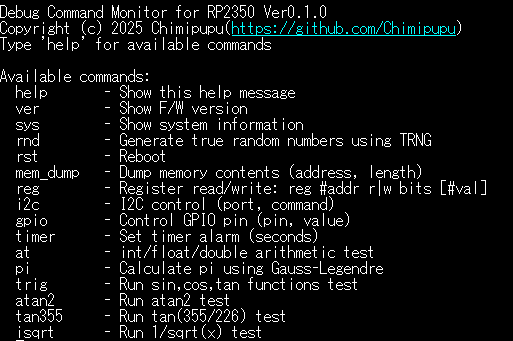
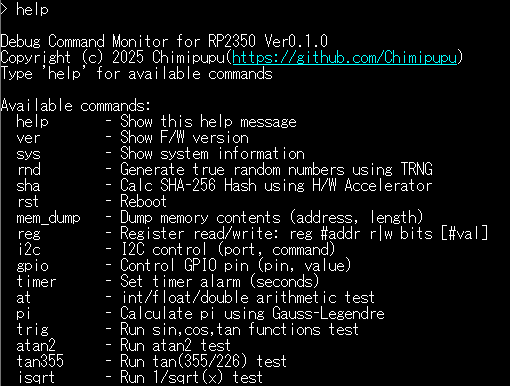
SHA-256コマンドの実装とテスト完了

Changed region(s): [[0.0, 0.0, 0.9706, 1.0]]

diff --git a/src/rp2350_dev/dbg_com.c b/src/rp2350_dev/dbg_com.c
@@ -286,22 +286,26 @@ static void cmd_pi_calc(const dbg_cmd_args_t* p_args)
 
 static void cmd_sha(const dbg_cmd_args_t* p_args)
 {
-#if 1
-    // (DEBUG)
-    // const char msg[] = "RP2350 H/W SHA-256 TEST";    // SHA256期待値「40AEDCA712E82FD6128B6A9AFCA1350ABA27AC1259E92AE3BADE0C0C4FE892E2」
-    const char msg[] = "ABC";                        // SHA256期待値「B5D4045C3F466FA91FE2CC6ABE79232A1A57CDF104F7A26E716E0A1E2789DF78」
-#endif
     uint8_t padding_buf[64 * 2];
     uint8_t hash_buf[64 * 2];
     size_t padding_len;
-
-    memset(hash_buf, 0, sizeof(hash_buf));
-    memset(padding_buf, 0, sizeof(padding_buf));
 
     if (p_args->argc < 2 || p_args->argc > 2) {
         printf("Usage: sha <data>\n");
         return;
     }
+
+    memset(hash_buf, 0, sizeof(hash_buf));
+    memset(padding_buf, 0, sizeof(padding_buf));
+
+#if 1
+    char *msg;
+    msg = p_args->p_argv[1];
+#else
+    // (DEBUG)
+    // const char msg[] = "RP2350 H/W SHA-256 TEST";    // SHA256期待値「40AEDCA712E82FD6128B6A9AFCA1350ABA27AC1259E92AE3BADE0C0C4FE892E2」
+    const char msg[] = "ABC";                        // SHA256期待値「B5D4045C3F466FA91FE2CC6ABE79232A1A57CDF104F7A26E716E0A1E2789DF78」
+#endif
 
     printf("\nSHA-256 Hash Calc(H/W)\n");
     printf("\nCalc str : %s\n", msg);

diff --git a/README.md b/README.md
@@ -47,6 +47,7 @@
 - [VER](#ver) - ファームウェアバージョン表示
 - [SYS](#sys) - システム情報表示
 - [RND](#rnd) - 真性乱数をH/WのTRANGで生成
+- [SHA](#sha) - SHA-256をH/Wで計算
 - [RST](#rst) - システムリセット
 - [MEM_DUMP](#mem_dump) - メモリダンプ
 - [REG](#reg) - レジスタR/W
@@ -80,6 +81,7 @@
     ver        - Show F/W version
     sys        - Show system information
     rnd        - Generate true random numbers using TRNG
+    sha        - Calc SHA-256 Hash using H/W Accelerator
     rst        - Reboot
     mem_dump   - Dump memory contents (address, length)
     reg        - Register read/write: reg #addr r|w bits [#val]
@@ -204,6 +206,41 @@
   [DEBUG]generated rand num(0): 1780349305
   [DEBUG]generated rand num(1): 3947560575
   [DEBUG]generated rand num(2): 1790515031
+  ```
+
+#### SHA
+
+- `sha` - SHA-256
+  - SHA-256をH/Wで計算
+
+<div align="center">
+  <img width="500" src="/doc/写真/sha256_cmd_ver0.1.0.png">
+</div>
+
+  ```shell
+  > sha ABC
+
+  SHA-256 Hash Calc(H/W)
+
+  Calc str : ABC
+
+  [Memory Dump '(addr:0x20080F28)]
+  Address  00 01 02 03 04 05 06 07 08 09 0A 0B 0C 0D 0E 0F | ASCII
+  -------- ------------------------------------------------| ------
+  20080F28: 41 42 43 80 00 00 00 00 00 00 00 00 00 00 00 00 | ABC.............
+  20080F38: 00 00 00 00 00 00 00 00 00 00 00 00 00 00 00 00 | ................
+  20080F48: 00 00 00 00 00 00 00 00 00 00 00 00 00 00 00 00 | ................
+  20080F58: 00 00 00 00 00 00 00 00 00 00 00 00 00 00 00 18 | ................
+
+  SHA-256 Hash : B5D4045C3F466FA91FE2CC6ABE79232A1A57CDF104F7A26E716E0A1E2789DF78
+
+  [Memory Dump '(addr:0x20080EA8)]
+  Address  00 01 02 03 04 05 06 07 08 09 0A 0B 0C 0D 0E 0F | ASCII
+  -------- ------------------------------------------------| ------
+  20080EA8: B5 D4 04 5C 3F 46 6F A9 1F E2 CC 6A BE 79 23 2A | ...\?Fo....j.y#*
+  20080EB8: 1A 57 CD F1 04 F7 A2 6E 71 6E 0A 1E 27 89 DF 78 | .W.....nqn..'..x
+  20080EC8: 00 00 00 00 00 00 00 00 00 00 00 00 00 00 00 00 | ................
+  20080ED8: 00 00 00 00 00 00 00 00 00 00 00 00 00 00 00 00 | ................
   ```
 
 #### RST
